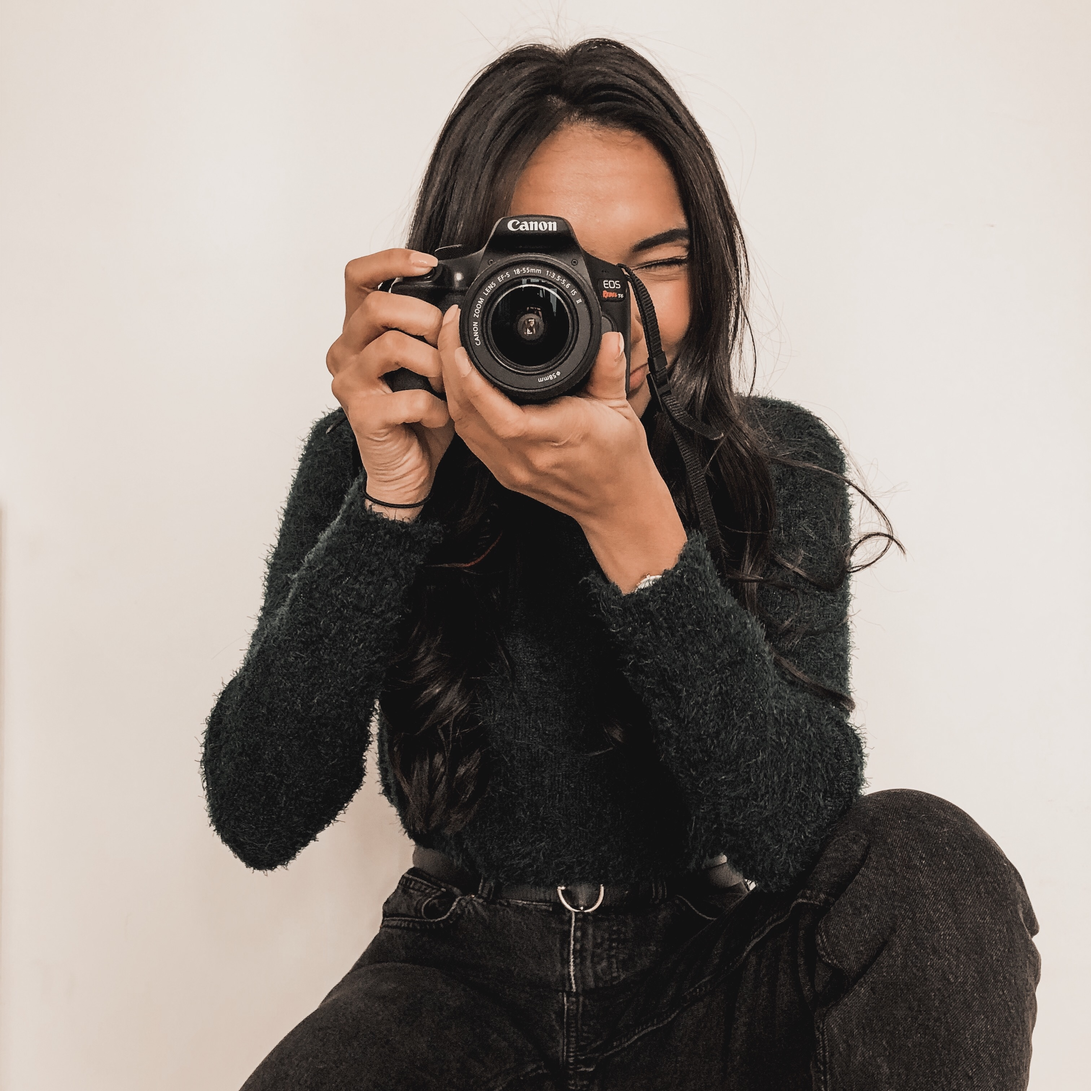
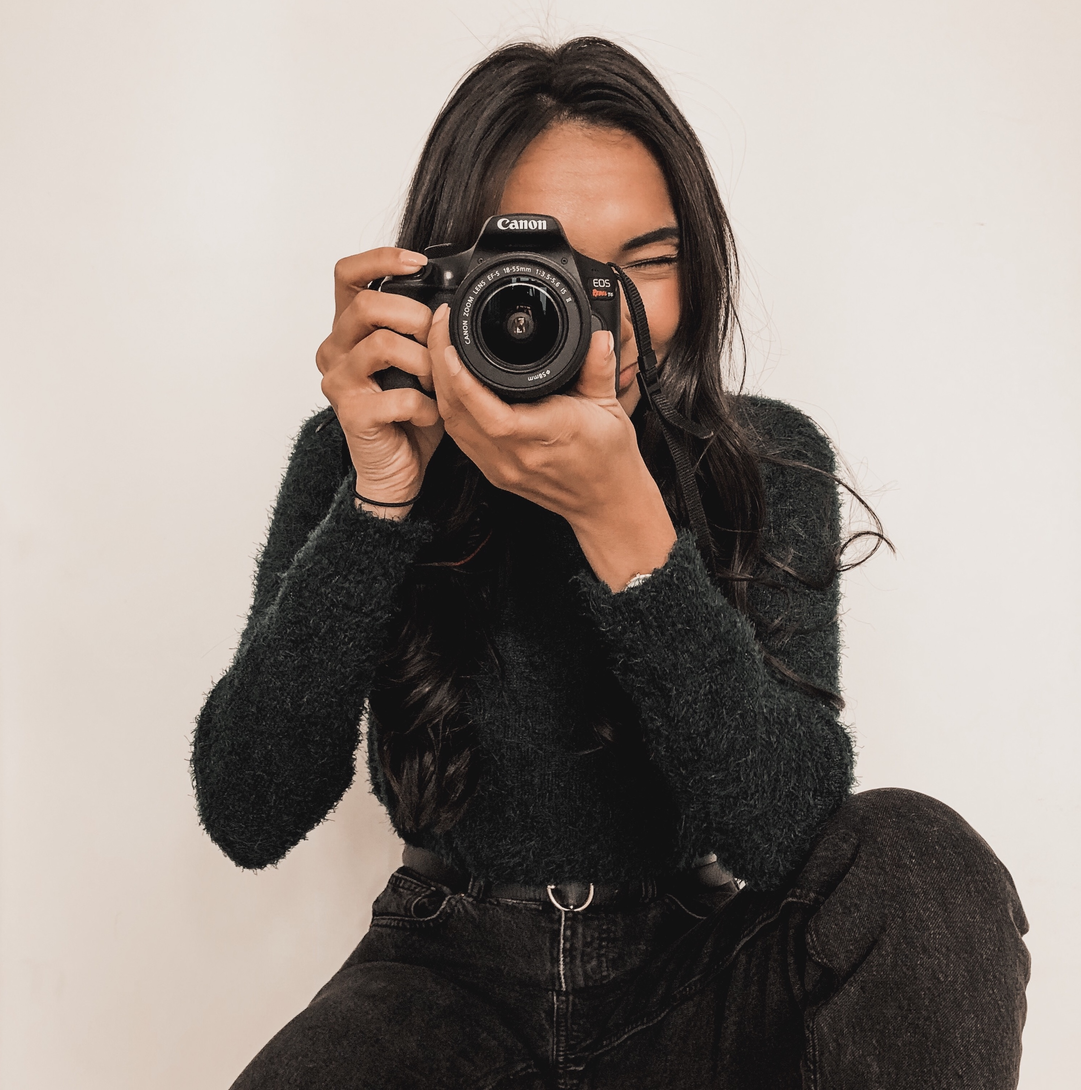
Contact page layout finished
Still have to fix the font

diff --git a/contact.html b/contact.html
@@ -22,32 +22,37 @@
 		<main>
 			<header>
 				<h1 class="heading"> - get in touch - </h1>
-				<p> Want to get in touch? I'd love to hear from you! Here's how you can contact me...</p>
 			</header>
-			<div class="container">
-				<form action="action_page.php">
+			<div class="contact-grid">
+				<div class="contact-container">
+					<p> Want to get in touch? I'd love to hear from you! Here's how you can contact me...</p>
+					<form action="action_page.php">
 
-					<label for="fname">First Name</label>
-					<input type="text" id="fname" name="firstname" placeholder="Your name...">
+						<label for="fname">First Name</label>
+						<input type="text" id="fname" name="firstname" placeholder="Your name...">
 
-					<label for="lname">Last Name</label>
-					<input type="text" id="lname" name="lastname" placeholder="Your last name...">
+						<label for="lname">Last Name</label>
+						<input type="text" id="lname" name="lastname" placeholder="Your last name...">
 
-					<label for="organization">Organization</label>
-					<input type="text" id="organization" name="organization" placeholder="Your organization...">
+						<label for="organization">Organization</label>
+						<input type="text" id="organization" name="organization" placeholder="Your organization...">
 					
-					<label for="email">E-mail</label>
-					<input type="text" id="email" name="email" placeholder="Your e-mail...">
+						<label for="email">E-mail</label>
+						<input type="text" id="email" name="email" placeholder="Your e-mail...">
 
-					<label for="phone">Phone Number</label>
-					<input type="text" id="phone" name="phone" placeholder="Your phone number...">
+						<label for="phone">Phone Number</label>
+						<input type="text" id="phone" name="phone" placeholder="Your phone number...">
 
-					<label for="description">(Project) Description</label>
-					<textarea id="description" name="description" placeholder="Type your message here..."></textarea>
+						<label for="description">(Project) Description</label>
+						<textarea id="description" name="description" placeholder="Type your message here..."></textarea>
 
-					<input type="submit" value="Submit">
+						<input type="submit" value="Submit">
 
-				</form>
+					</form>
+				</div>
+				<div class="contact-image">
+					<img src="images/DSC_0779.JPG" alt="Denise Hodgson">
+				</div>
 			</div>
 		</main>
 	</body>

diff --git a/css/styles.css b/css/styles.css
@@ -251,7 +251,7 @@ a:active {
 /* ------------------ PROJECTS ----------------- */
  
  .projects-grid {
- 	background-color: yellow;
+ 	background-color: #FFDAB9;
  	font-family: 'Montserrat', sans-serif;
 	display: grid;
 	grid-template-columns: 1fr 1fr;
@@ -348,11 +348,24 @@ img {
 }
 
 
-.container {
-	font-family: 'Montserrat', sans-serif;
-	border-radius: 5px;
+
+
+
+
+.jive {
+	width: 400px;
+	height: 500px;
+	padding: 100px;
+}
+
+
+/* -------------- CONTACT ---------------- */
+
+.contact-grid {
 	background-color: #FFBFA3;
-	padding: 20px;
+ 	font-family: 'Montserrat', sans-serif;
+	display: grid;
+	grid-template-columns: 1fr 1fr;
 }
 
 input[type=text], select, textarea {
@@ -365,18 +378,22 @@ input[type=text], select, textarea {
 	margin-bottom: 16px;
 	resize: vertical;
 }
-
-.jive {
-	width: 400px;
-	height: 500px;
-	padding: 100px;
+.contact-container {
+	font-family: 'Montserrat', sans-serif;
+	background-color: white;
+	padding: 20px;
+	margin-left: 225px;
+	margin-bottom: 30px;
+	margin-top: 30px;
 }
 
-
-
-
-
-
+.contact-image {
+	width: 500px;
+	height: 750px;
+	padding-right: 50px;
+	padding-bottom: 30px;
+	padding-top: 30px;
+}
 
 
 
